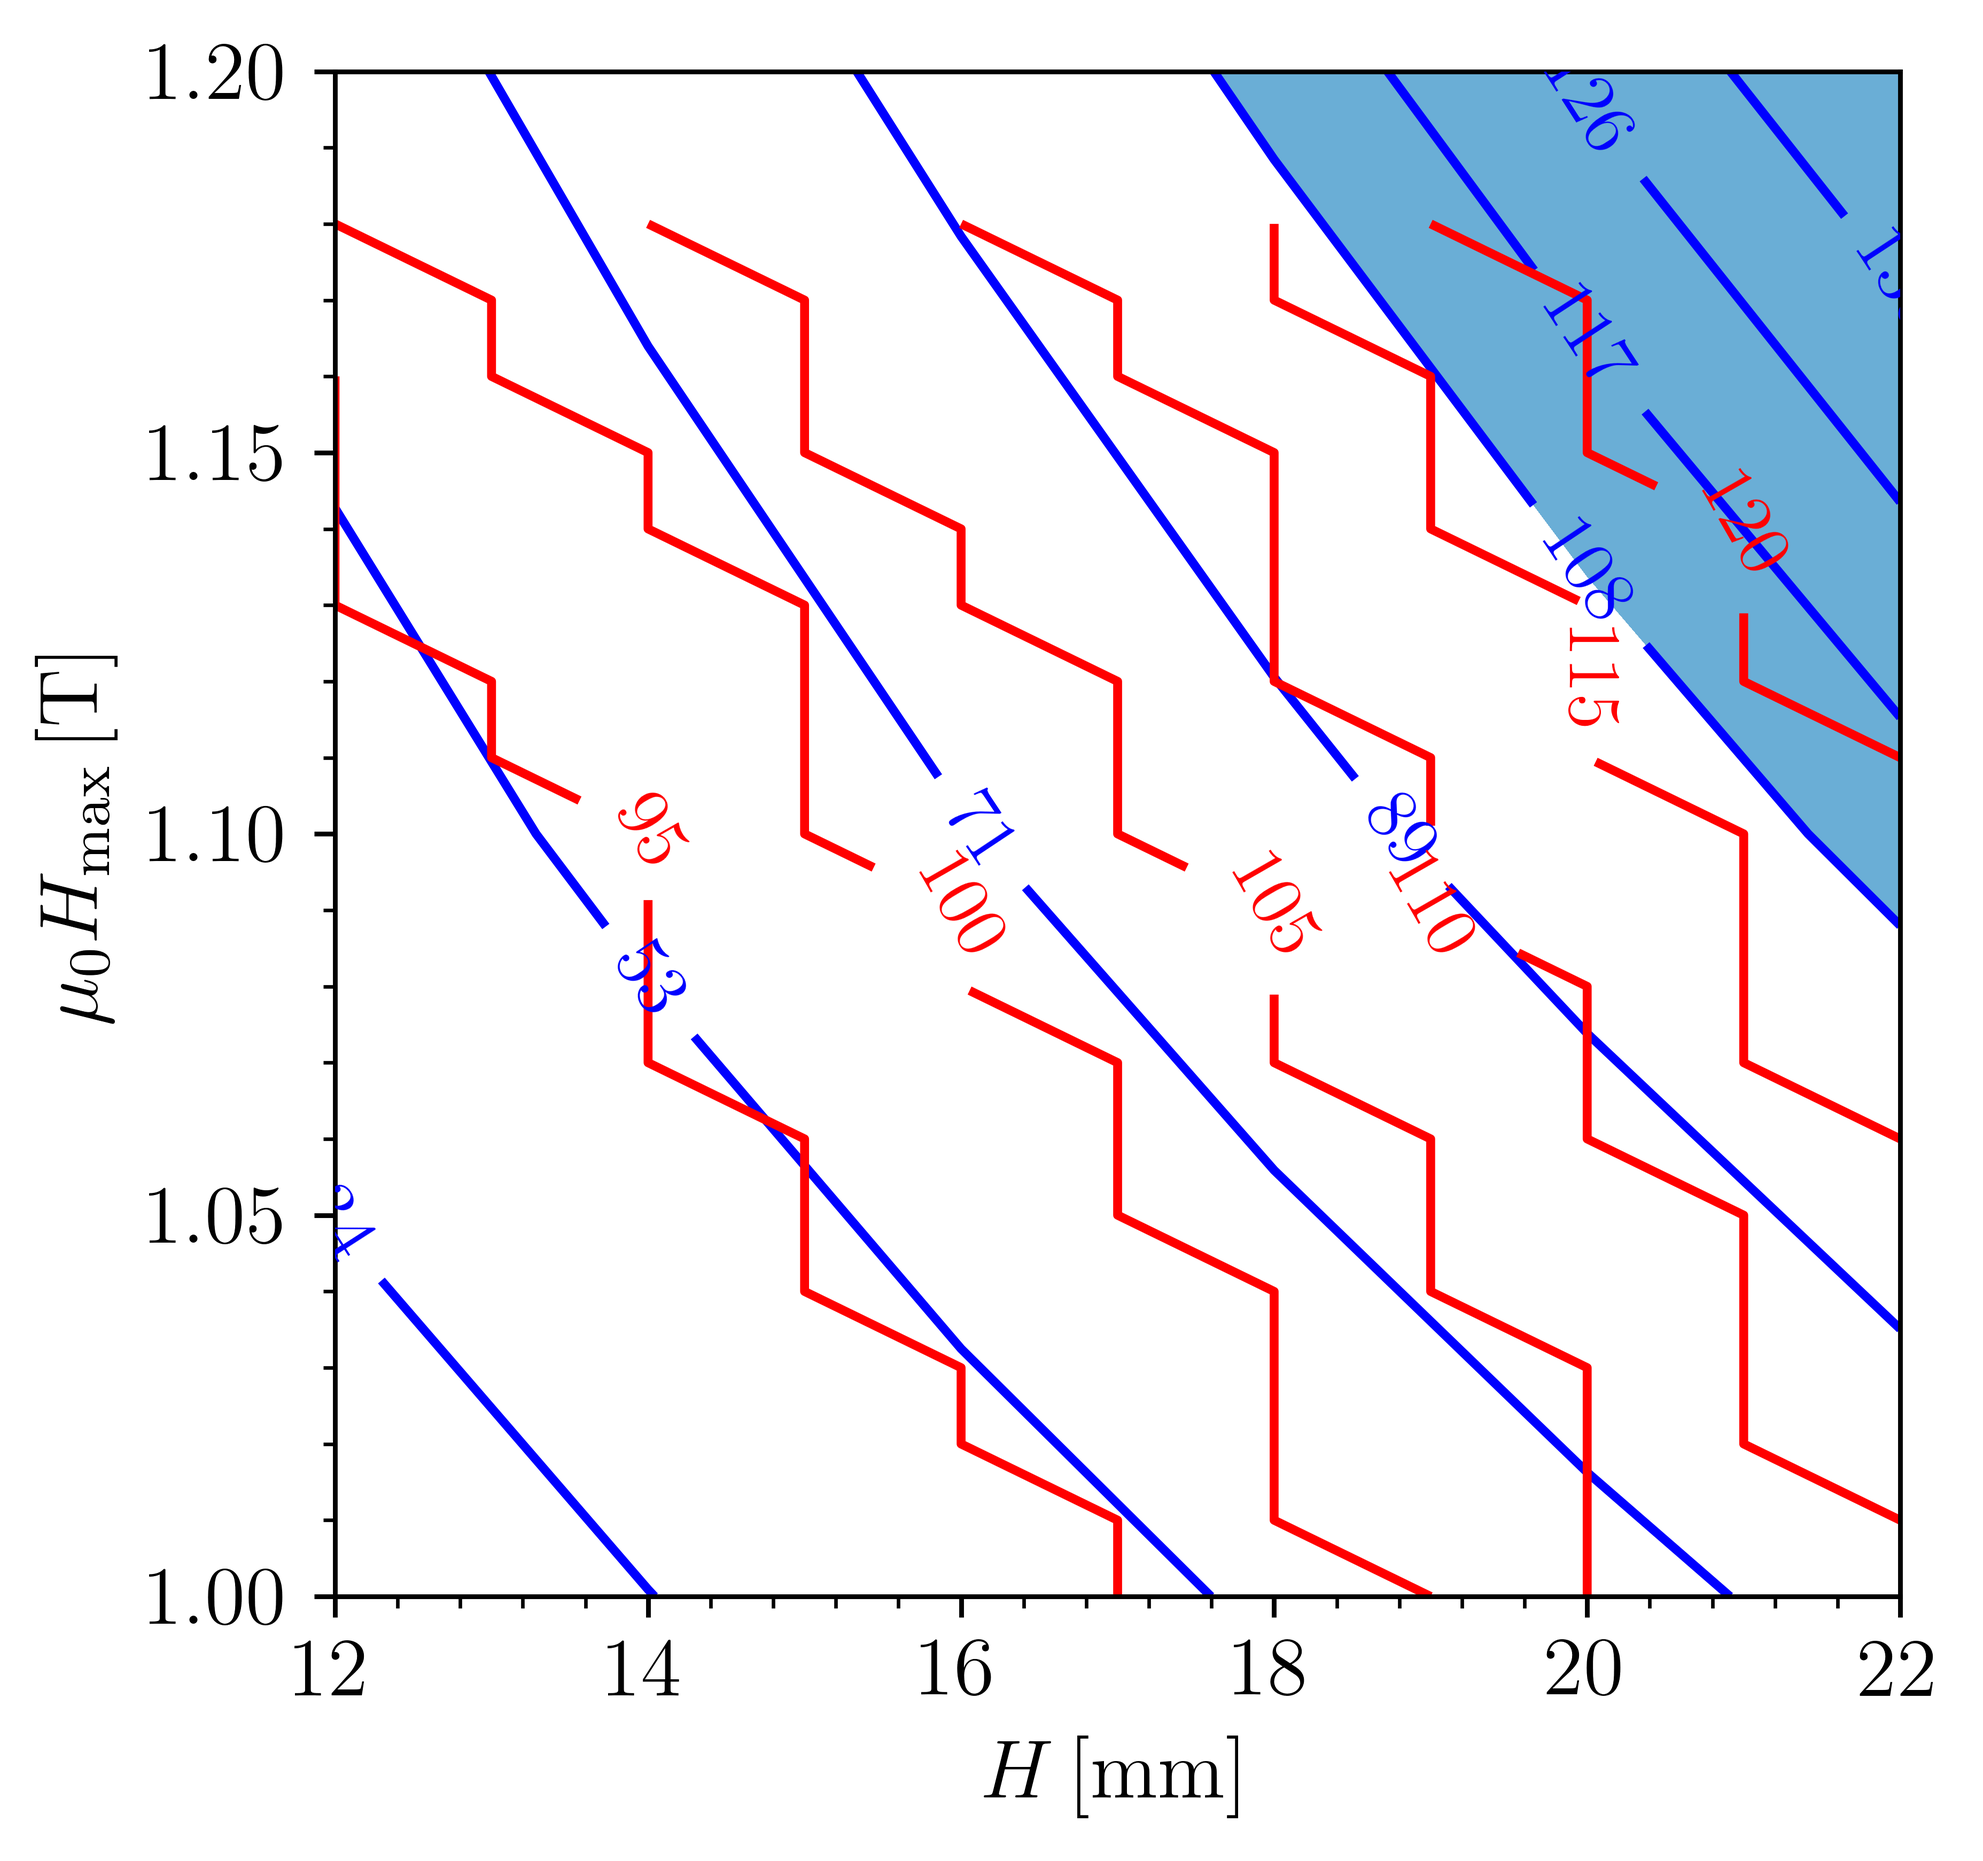
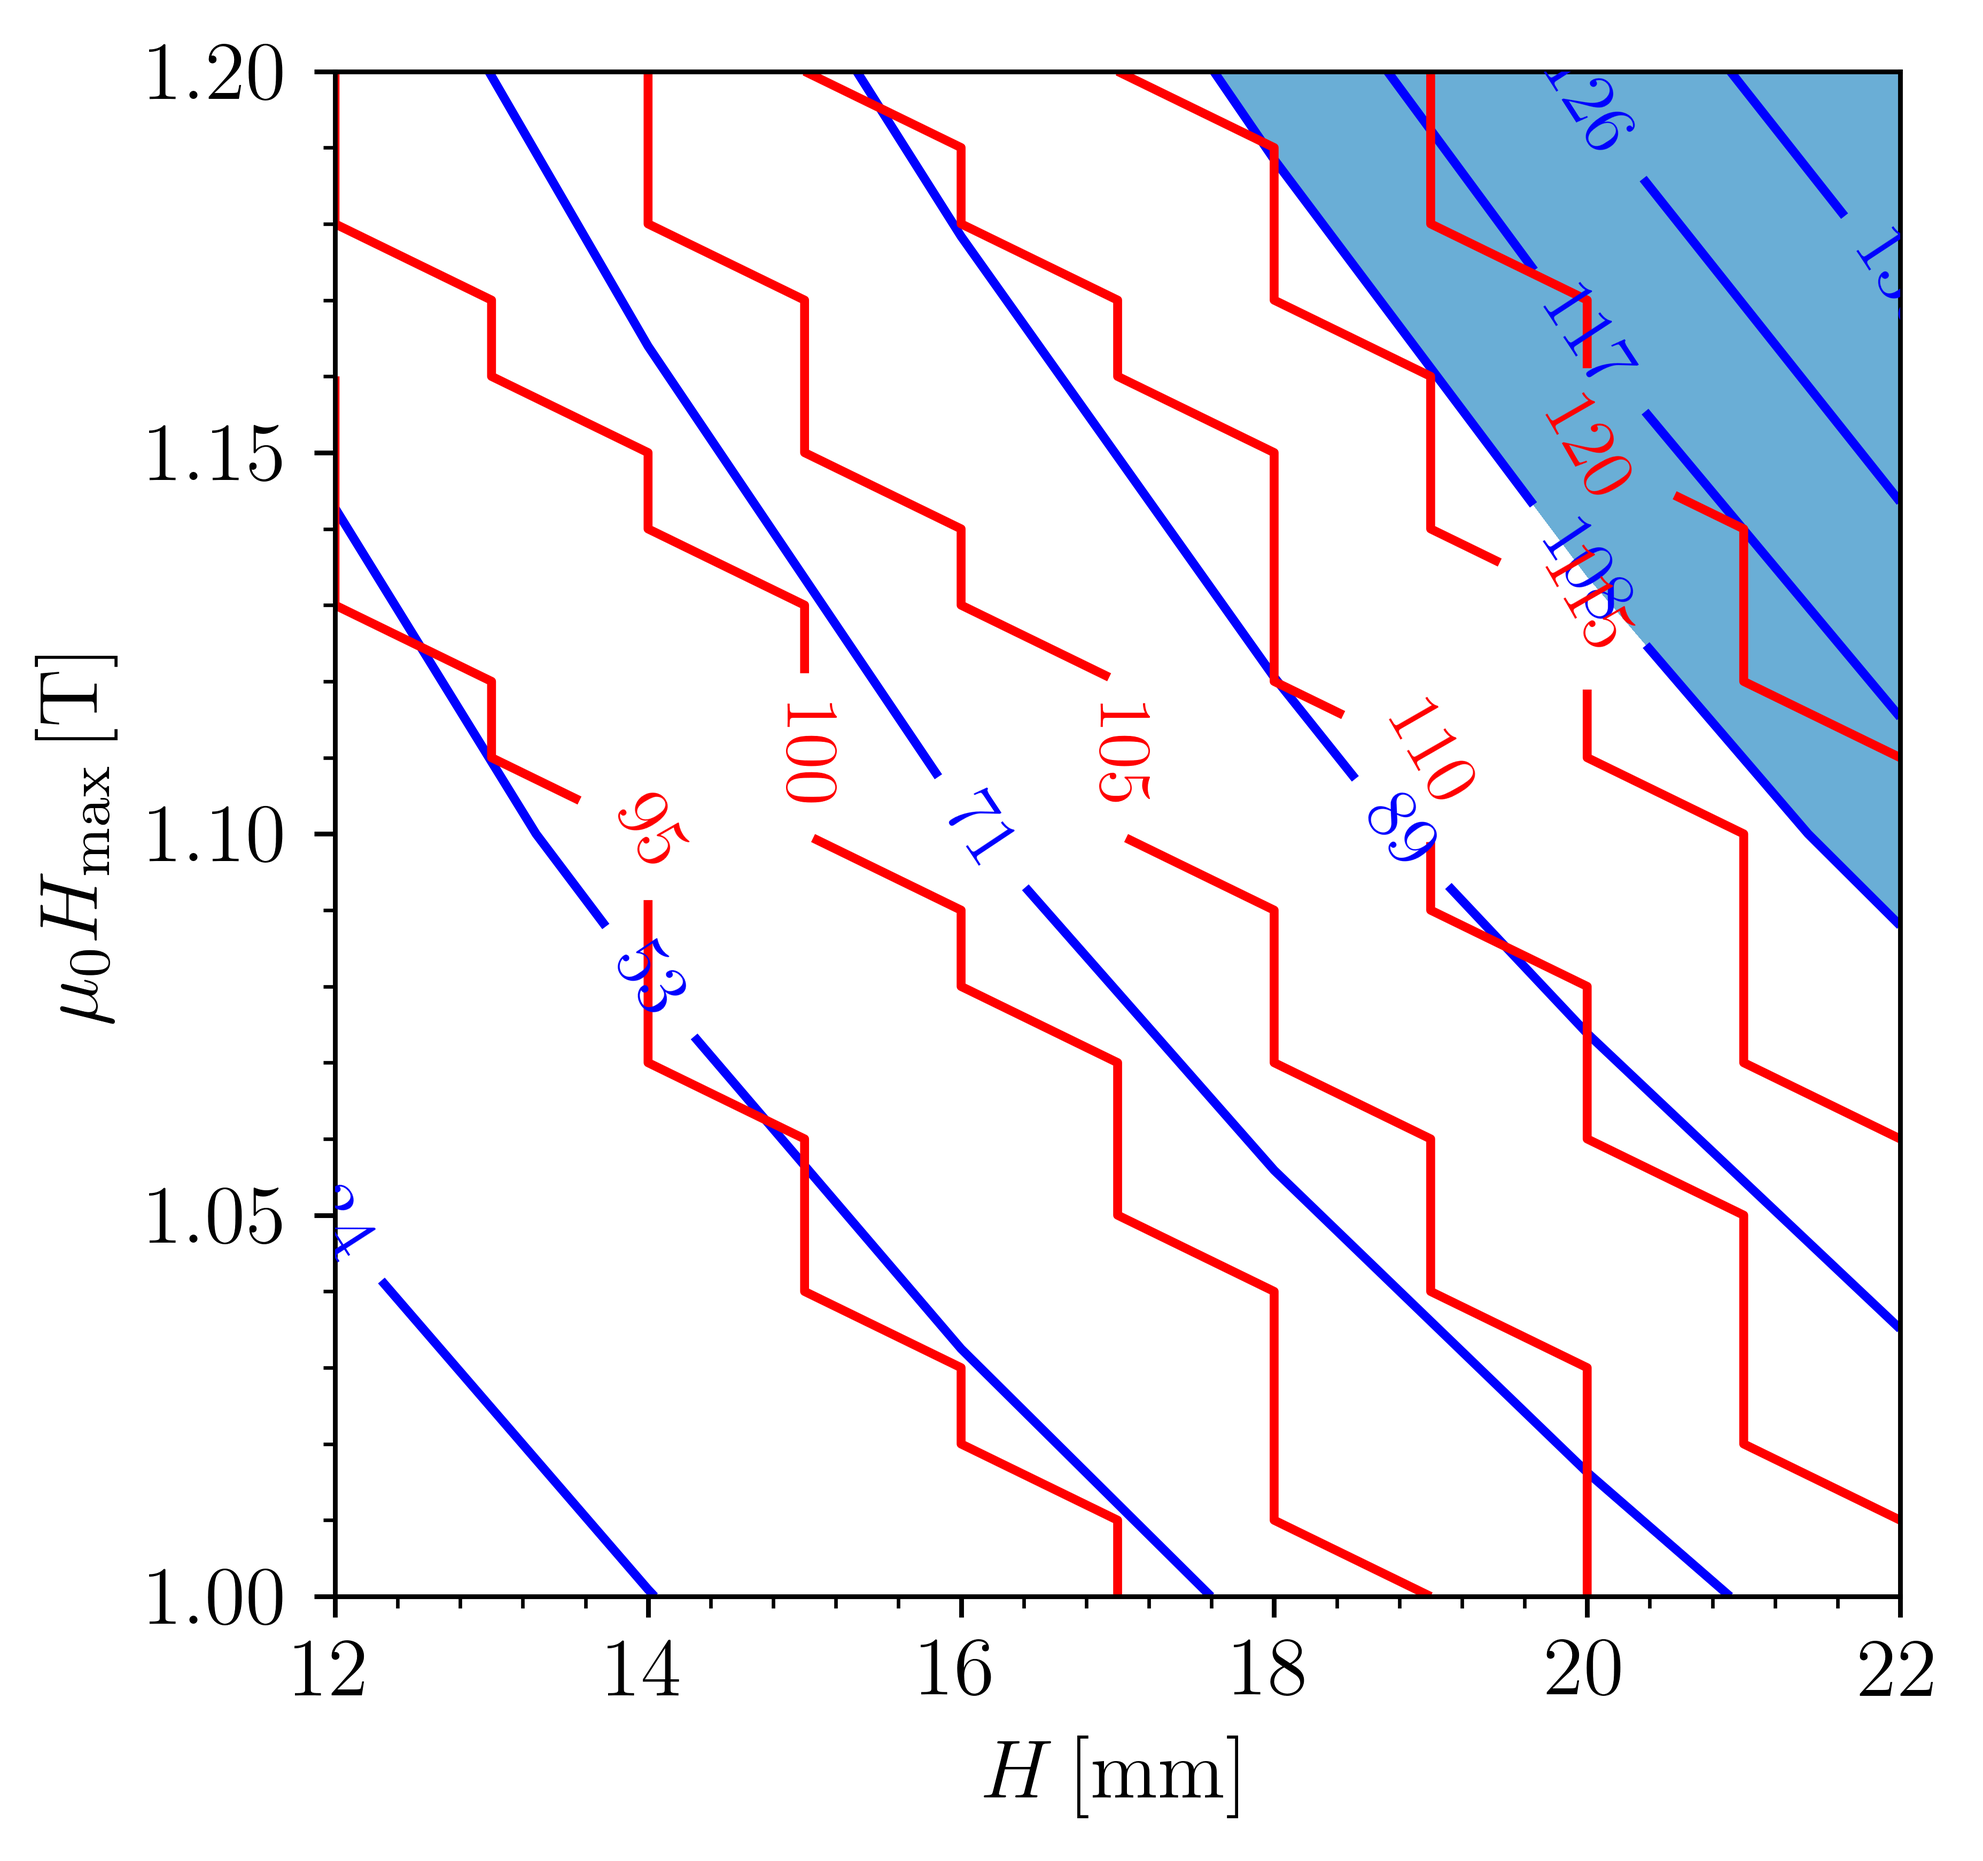
Corrected R_s maps with full range

diff --git a/run_Rs_maps.py b/run_Rs_maps.py
@@ -93,7 +93,6 @@ h_gap_step = 1
 h_gap_values = 1e-3*np.arange(h_gap_min,h_gap_max + h_gap_step, h_gap_step)
 
 R_s_min = 90e-3
-R_s_min = 125e-3
 R_s_max = 150e-3
 dRs = 5e-3
 
